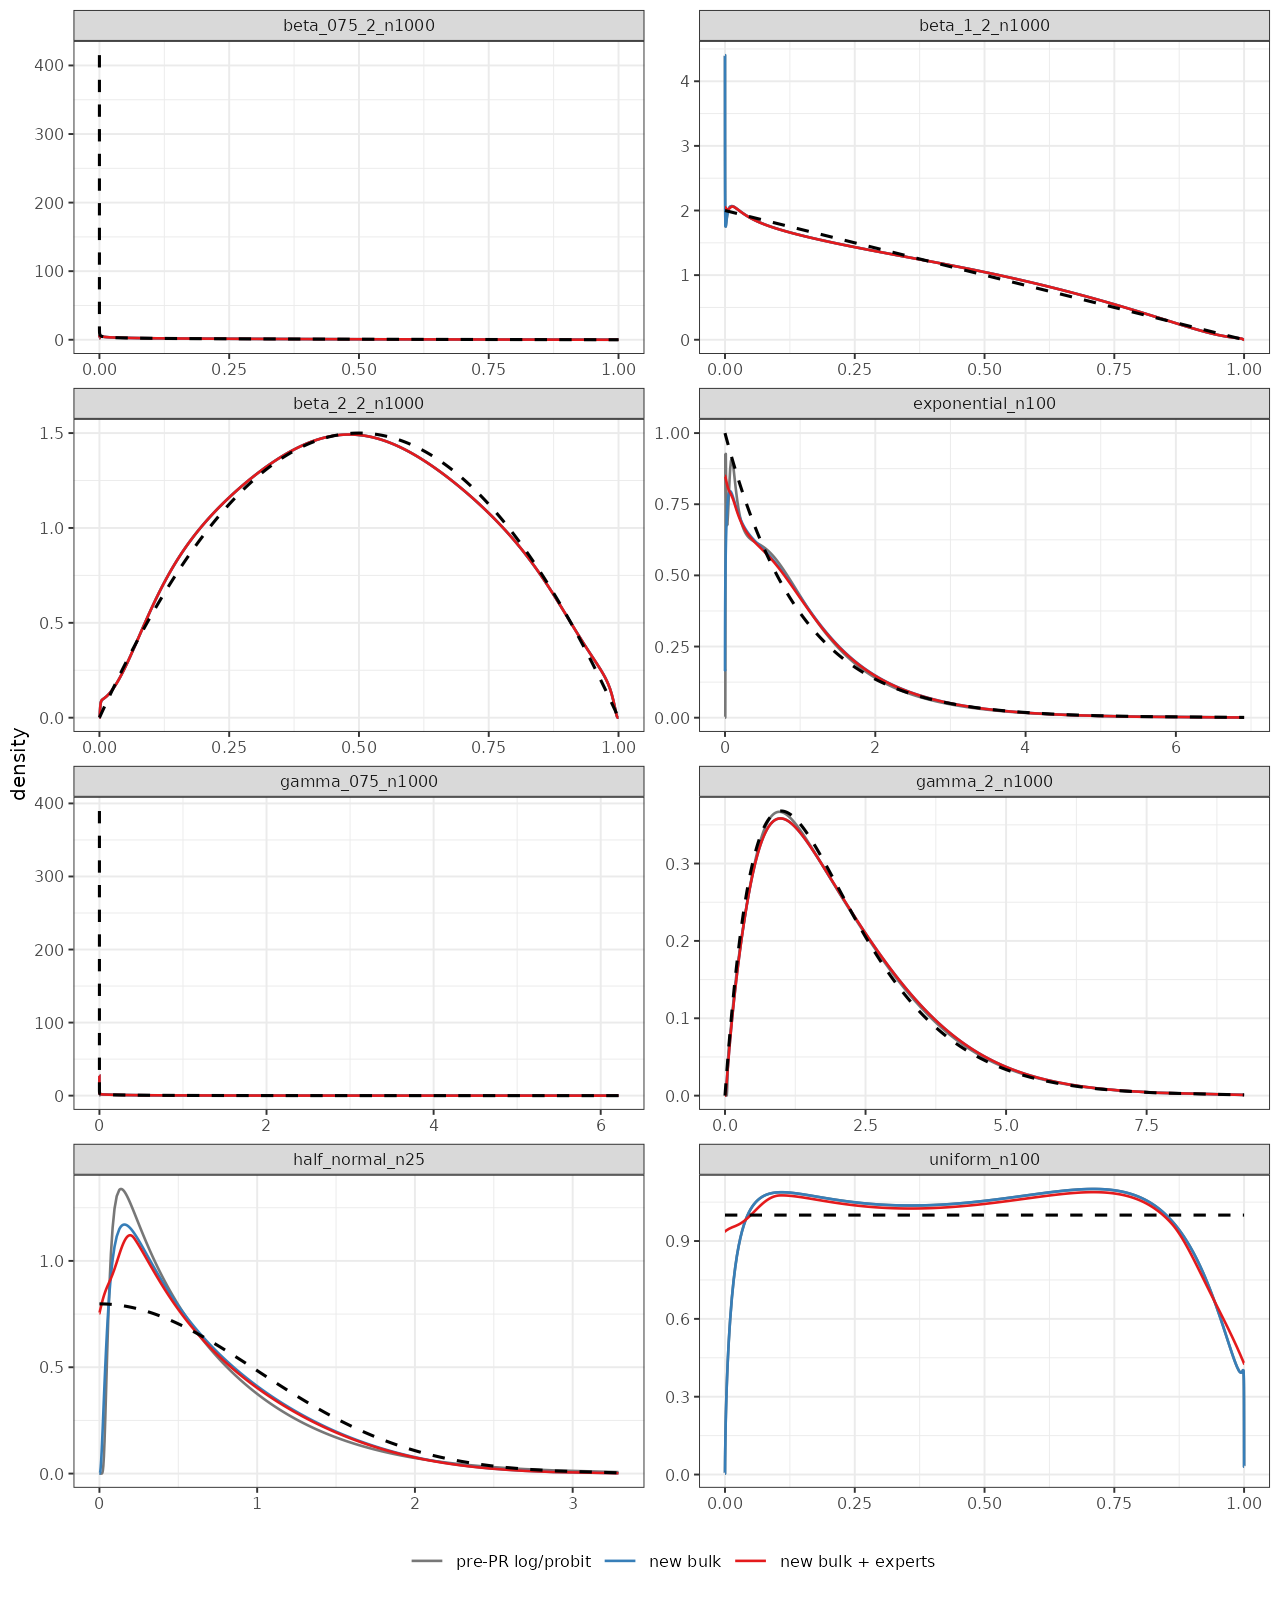
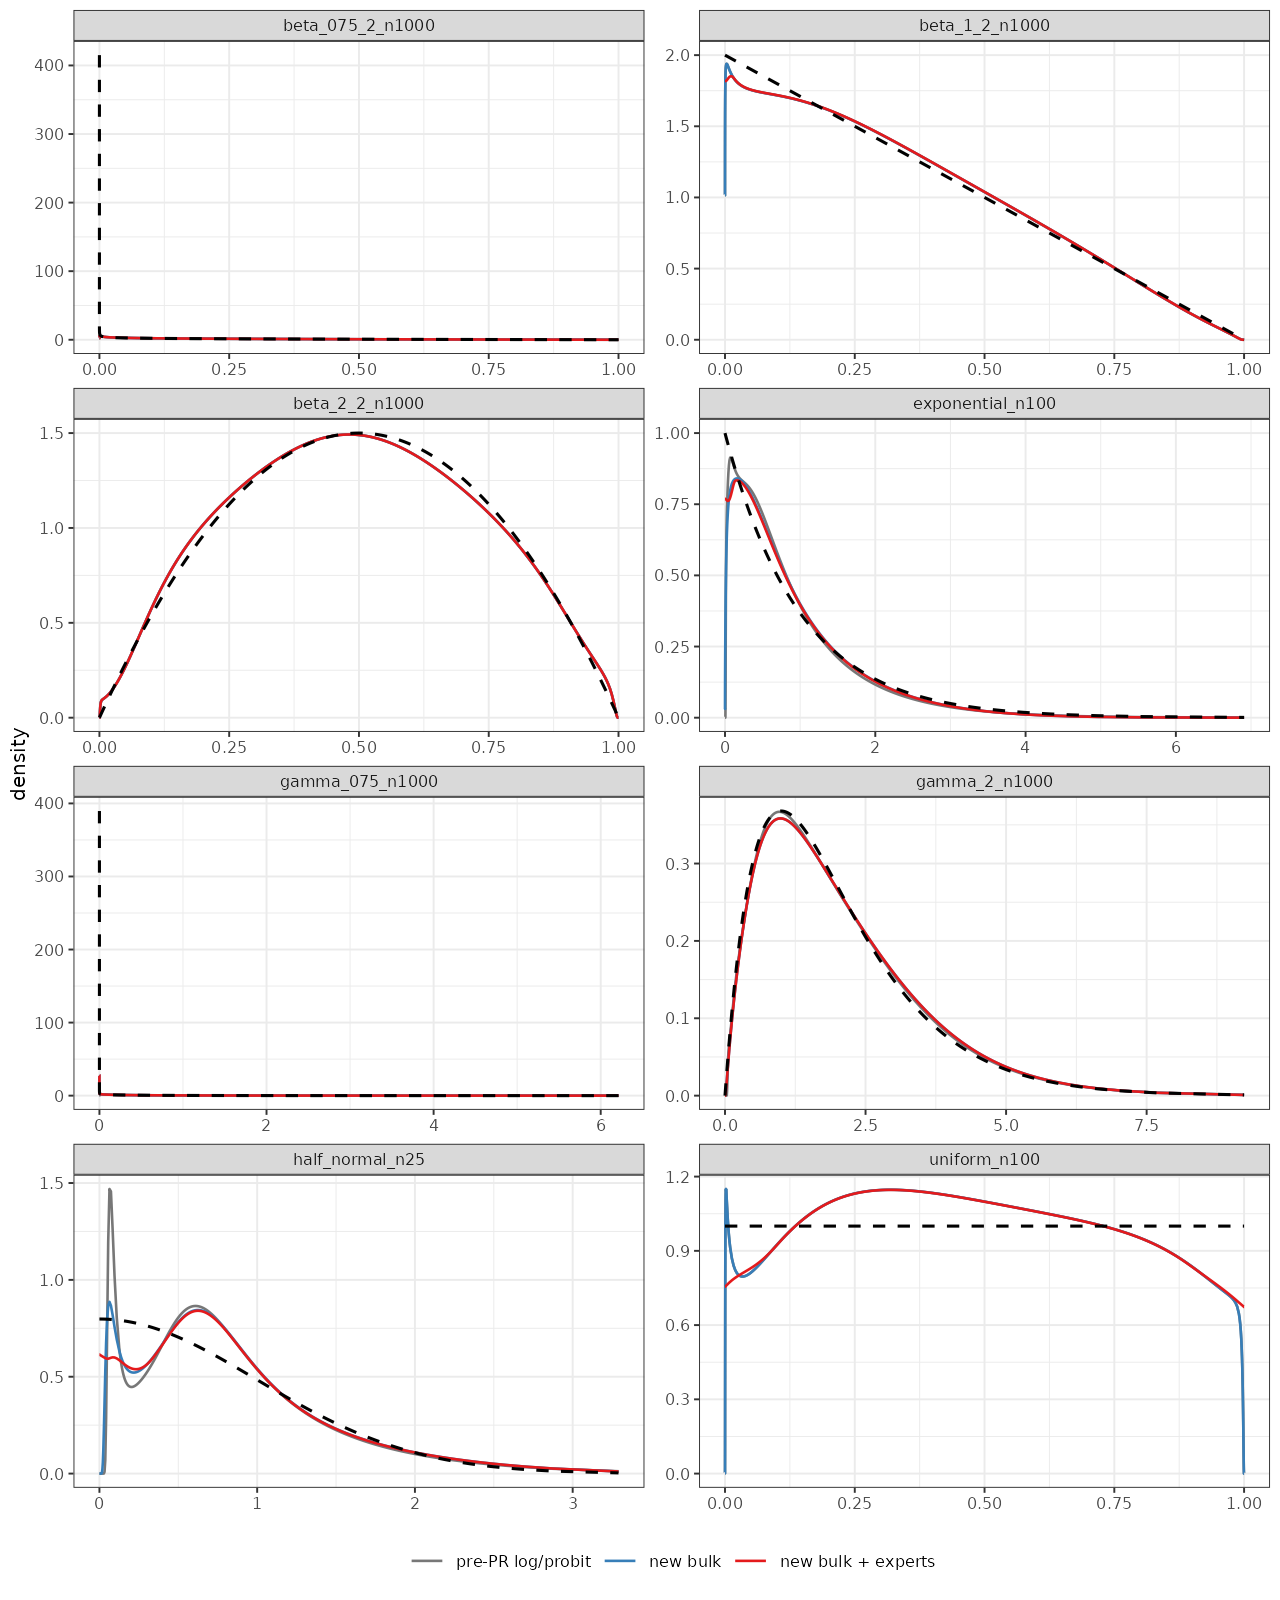
Refresh boundary validation results

diff --git a/diagnostic/PR_COMMENT.md b/diagnostic/PR_COMMENT.md
@@ -4,19 +4,21 @@ This PR changes continuous fits with known finite support in two steps.
 
 For a one-sided support, write $d(x)$ for distance from the finite endpoint,
 let $s$ be the weighted median observed distance, and set
-$\epsilon=10^{-5}s$. The transformed bulk estimator now uses
+$\epsilon=10^{-5}s$. The transformed bulk estimator uses an endpoint-anchored,
+scaled member of the Box-Cox family with power parameter $\lambda=1/4$:
 
 $$
 T\{d(x)\}
-=4\left[\left\{\frac{d(x)+\epsilon}{s}\right\}^{1/4}
--\left(\frac{\epsilon}{s}\right)^{1/4}\right],
+=4[\{\frac{d(x)+\epsilon}{s}\}^{1/4}
+-\{\frac{\epsilon}{s}\}^{1/4}],
 \qquad
 |T'(x)|
-=\frac{1}{s}\left\{\frac{d(x)+\epsilon}{s}\right\}^{-3/4}.
+=\frac{1}{s}\{\frac{d(x)+\epsilon}{s}\}^{-3/4}.
 $$
 
-This replaces the previous log transform and makes the construction scale
-equivariant. Two-sided fits retain the regularized probit bulk transform.
+This Box-Cox transform replaces the previous log transform and makes the
+construction scale equivariant. Two-sided fits retain the regularized probit
+bulk transform.
 
 Each finite endpoint is then classified independently from its first
 $k\simeq2\sqrt{n_e}$ order statistics. In the unweighted case,
@@ -29,10 +31,8 @@ $$
 
 Endpoints consistent with a finite nonzero limiting density receive a boundary
 expert. Exploding, vanishing, ambiguous, and degenerate endpoints retain the
-bulk. The expert is a Gaussian local-linear equivalent-kernel estimate,
-
-using an automatically selected bandwidth on the original
-scale. The selector uses all
+bulk. The expert is a Gaussian local-linear equivalent-kernel estimate with an
+automatically selected bandwidth on the original scale. The selector uses all
 positive-weight observations on bounded support and the closest 75% by row
 count on one-sided support. The two required Gaussian convolutions are
 evaluated on a shared 256-bin FFT grid.
@@ -62,8 +62,8 @@ clamps, and normalization fixed.
 
 ## Validation design
 
-The large-scale tables below predate the biweight and local-linear
-simplifications and will be refreshed before merge.
+> **Before merging:** remove `diagnostic/`; it is retained in this branch only
+> to make the PR validation reproducible during review.
 
 The primary benchmark is the actual pre-PR package at parent commit `7faec53`
 with C++ commit `b16d514`: log transform for one-sided support and probit for
@@ -85,28 +85,28 @@ PR**. Parentheses are paired Monte Carlo standard errors.
 
 | support | degree | $n=25$ | $n=100$ | $n=1000$ | $n=2000$ |
 |---|---:|---:|---:|---:|---:|
-| one-sided | 0 | 0.748 (0.044) | 0.579 (0.028) | 0.513 (0.011) | 0.475 (0.010) |
-| one-sided | 1 | 0.505 (0.020) | 0.411 (0.011) | 0.684 (0.063) | 0.724 (0.050) |
-| one-sided | 2 | 0.211 (0.036) | 0.198 (0.021) | 0.208 (0.018) | 0.260 (0.015) |
-| two-sided | 0 | 0.951 (0.005) | 0.943 (0.005) | 0.941 (0.006) | 0.925 (0.005) |
-| two-sided | 1 | 0.867 (0.006) | 0.823 (0.007) | 0.847 (0.005) | 0.852 (0.004) |
-| two-sided | 2 | 0.892 (0.013) | 0.911 (0.006) | 0.940 (0.006) | 0.932 (0.006) |
+| one-sided | 0 | 1.810 (0.116) | 1.134 (0.049) | 0.586 (0.015) | 0.519 (0.011) |
+| one-sided | 1 | 0.789 (0.038) | 0.508 (0.011) | 0.566 (0.042) | 0.612 (0.037) |
+| one-sided | 2 | 0.550 (0.034) | 0.394 (0.015) | 0.231 (0.008) | 0.231 (0.008) |
+| two-sided | 0 | 0.946 (0.005) | 0.940 (0.005) | 0.943 (0.006) | 0.926 (0.006) |
+| two-sided | 1 | 0.856 (0.007) | 0.817 (0.007) | 0.846 (0.005) | 0.850 (0.004) |
+| two-sided | 2 | 0.881 (0.013) | 0.906 (0.006) | 0.943 (0.007) | 0.932 (0.007) |
 
 ### Boundary ratio, averaged over families
 
 | support | degree | $n=25$ | $n=100$ | $n=1000$ | $n=2000$ |
 |---|---:|---:|---:|---:|---:|
-| one-sided | 0 | 0.702 (0.049) | 0.513 (0.030) | 0.447 (0.013) | 0.399 (0.011) |
-| one-sided | 1 | 0.399 (0.022) | 0.303 (0.011) | 0.636 (0.075) | 0.702 (0.059) |
-| one-sided | 2 | 0.144 (0.027) | 0.151 (0.027) | 0.159 (0.016) | 0.205 (0.015) |
-| two-sided | 0 | 0.923 (0.005) | 0.944 (0.005) | 0.954 (0.005) | 0.939 (0.005) |
-| two-sided | 1 | 0.824 (0.008) | 0.826 (0.007) | 0.879 (0.004) | 0.877 (0.004) |
-| two-sided | 2 | 0.883 (0.012) | 0.913 (0.005) | 0.955 (0.005) | 0.945 (0.005) |
+| one-sided | 0 | 3.149 (0.278) | 1.553 (0.097) | 0.563 (0.020) | 0.461 (0.014) |
+| one-sided | 1 | 0.931 (0.073) | 0.437 (0.017) | 0.519 (0.047) | 0.590 (0.042) |
+| one-sided | 2 | 0.612 (0.048) | 0.396 (0.024) | 0.190 (0.009) | 0.190 (0.008) |
+| two-sided | 0 | 0.918 (0.005) | 0.939 (0.005) | 0.955 (0.006) | 0.940 (0.006) |
+| two-sided | 1 | 0.817 (0.009) | 0.821 (0.007) | 0.878 (0.004) | 0.876 (0.004) |
+| two-sided | 2 | 0.877 (0.012) | 0.910 (0.005) | 0.958 (0.006) | 0.946 (0.006) |
 
-The expert also improves over the unrepaired new bulk. Averaged global ISE
-ratios range from 0.84--0.94 for degree 0, 0.74--0.89 for degree 1, and
-0.88--0.92 for degree 2 on one-sided support. The corresponding bounded ratios
-are 0.93--0.95, 0.82--0.87, and 0.89--0.94.
+Against the unrepaired new bulk, averaged global ISE ratios range from
+0.83--0.94 for degree 0, 0.73--0.88 for degree 1, and 0.87--0.92 for degree 2
+on one-sided support. The corresponding bounded ratios are 0.93--0.95,
+0.82--0.86, and 0.88--0.94.
 
 <details>
 <summary>Family-level global / boundary ISE ratios</summary>
@@ -115,78 +115,78 @@ are 0.93--0.95, 0.82--0.87, and 0.89--0.94.
 
 | family | $n=25$ | $n=100$ | $n=1000$ | $n=2000$ |
 |---|---:|---:|---:|---:|
-| Exponential | 0.75 / 0.73 | 0.49 / 0.45 | 0.37 / 0.30 | 0.34 / 0.27 |
-| Gamma$(0.75)$ | 0.55 / 0.54 | 0.51 / 0.50 | 0.45 / 0.44 | 0.44 / 0.43 |
-| Gamma$(2)$ | 0.71 / 0.52 | 0.76 / 0.58 | 0.81 / 0.69 | 0.80 / 0.67 |
-| half-normal | 0.46 / 0.38 | 0.41 / 0.32 | 0.31 / 0.21 | 0.28 / 0.17 |
-| Lomax$(2)$ | 1.28 / 1.34 | 0.72 / 0.70 | 0.63 / 0.59 | 0.51 / 0.45 |
+| Exponential | 1.48 / 2.67 | 1.36 / 2.41 | 0.58 / 0.56 | 0.51 / 0.45 |
+| Gamma$(0.75)$ | 2.05 / 2.76 | 0.91 / 0.97 | 0.33 / 0.32 | 0.28 / 0.27 |
+| Gamma$(2)$ | 0.79 / 0.66 | 0.84 / 0.75 | 0.87 / 0.80 | 0.86 / 0.77 |
+| half-normal | 0.88 / 1.28 | 0.79 / 1.08 | 0.54 / 0.53 | 0.46 / 0.38 |
+| Lomax$(2)$ | 3.84 / 8.37 | 1.77 / 2.56 | 0.61 / 0.60 | 0.50 / 0.44 |
 
 #### One-sided, degree 1
 
 | family | $n=25$ | $n=100$ | $n=1000$ | $n=2000$ |
 |---|---:|---:|---:|---:|
-| Exponential | 0.49 / 0.37 | 0.31 / 0.22 | 0.38 / 0.26 | 0.38 / 0.27 |
-| Gamma$(0.75)$ | 0.27 / 0.25 | 0.25 / 0.21 | 0.45 / 0.43 | 0.53 / 0.52 |
-| Gamma$(2)$ | 0.69 / 0.46 | 0.81 / 0.63 | 0.93 / 0.98 | 1.01 / 1.19 |
-| half-normal | 0.45 / 0.32 | 0.38 / 0.23 | 0.43 / 0.25 | 0.43 / 0.25 |
-| Lomax$(2)$ | 0.62 / 0.60 | 0.31 / 0.22 | 1.23 / 1.26 | 1.27 / 1.28 |
+| Exponential | 0.70 / 0.83 | 0.47 / 0.43 | 0.37 / 0.25 | 0.35 / 0.24 |
+| Gamma$(0.75)$ | 0.72 / 0.88 | 0.33 / 0.30 | 0.32 / 0.30 | 0.36 / 0.34 |
+| Gamma$(2)$ | 0.74 / 0.59 | 0.84 / 0.73 | 0.93 / 1.03 | 1.00 / 1.21 |
+| half-normal | 0.61 / 0.65 | 0.50 / 0.40 | 0.47 / 0.29 | 0.44 / 0.26 |
+| Lomax$(2)$ | 1.17 / 1.71 | 0.40 / 0.32 | 0.74 / 0.72 | 0.91 / 0.90 |
 
 #### One-sided, degree 2
 
 | family | $n=25$ | $n=100$ | $n=1000$ | $n=2000$ |
 |---|---:|---:|---:|---:|
-| Exponential | 0.07 / 0.04 | 0.02 / 0.01 | 0.06 / 0.04 | 0.09 / 0.06 |
-| Gamma$(0.75)$ | 0.03 / 0.03 | 0.04 / 0.03 | 0.23 / 0.21 | 0.23 / 0.21 |
-| Gamma$(2)$ | 0.38 / 0.18 | 0.72 / 0.56 | 0.59 / 0.44 | 0.62 / 0.50 |
-| half-normal | 0.09 / 0.04 | 0.03 / 0.02 | 0.03 / 0.01 | 0.06 / 0.03 |
-| Lomax$(2)$ | 0.49 / 0.43 | 0.17 / 0.13 | 0.13 / 0.09 | 0.30 / 0.23 |
+| Exponential | 0.43 / 0.53 | 0.32 / 0.38 | 0.10 / 0.07 | 0.10 / 0.07 |
+| Gamma$(0.75)$ | 0.47 / 0.56 | 0.18 / 0.17 | 0.12 / 0.11 | 0.10 / 0.10 |
+| Gamma$(2)$ | 0.61 / 0.48 | 0.84 / 0.83 | 0.67 / 0.59 | 0.67 / 0.61 |
+| half-normal | 0.37 / 0.42 | 0.32 / 0.32 | 0.16 / 0.10 | 0.13 / 0.06 |
+| Lomax$(2)$ | 0.87 / 1.09 | 0.30 / 0.28 | 0.11 / 0.08 | 0.15 / 0.11 |
 
 #### Two-sided, degree 0
 
 | family | $n=25$ | $n=100$ | $n=1000$ | $n=2000$ |
 |---|---:|---:|---:|---:|
-| Beta$(0.75,0.75)$ | 1.02 / 1.03 | 1.03 / 1.04 | 1.04 / 1.04 | 1.05 / 1.05 |
-| Beta$(0.75,2)$ | 0.99 / 0.98 | 1.01 / 1.00 | 1.07 / 1.07 | 1.06 / 1.06 |
-| Beta$(1,2)$ | 0.93 / 0.91 | 0.85 / 0.86 | 0.83 / 0.86 | 0.78 / 0.81 |
-| Beta$(2,0.75)$ | 1.00 / 0.99 | 1.01 / 1.00 | 1.09 / 1.08 | 1.06 / 1.05 |
-| Beta$(2,1)$ | 0.95 / 0.93 | 0.89 / 0.89 | 0.78 / 0.81 | 0.79 / 0.82 |
-| Beta$(2,2)$ | 0.82 / 0.65 | 0.94 / 0.88 | 1.00 / 1.00 | 1.00 / 1.00 |
-| Uniform | 0.95 / 0.98 | 0.88 / 0.93 | 0.77 / 0.82 | 0.74 / 0.79 |
+| Beta$(0.75,0.75)$ | 1.01 / 1.02 | 1.03 / 1.04 | 1.05 / 1.05 | 1.06 / 1.06 |
+| Beta$(0.75,2)$ | 0.98 / 0.97 | 1.01 / 1.01 | 1.09 / 1.08 | 1.07 / 1.07 |
+| Beta$(1,2)$ | 0.90 / 0.89 | 0.84 / 0.85 | 0.82 / 0.85 | 0.77 / 0.80 |
+| Beta$(2,0.75)$ | 0.99 / 0.98 | 1.01 / 1.01 | 1.11 / 1.10 | 1.07 / 1.06 |
+| Beta$(2,1)$ | 0.94 / 0.92 | 0.87 / 0.88 | 0.76 / 0.80 | 0.78 / 0.81 |
+| Beta$(2,2)$ | 0.86 / 0.68 | 0.95 / 0.88 | 1.00 / 1.00 | 1.00 / 1.00 |
+| Uniform | 0.94 / 0.96 | 0.86 / 0.91 | 0.76 / 0.81 | 0.72 / 0.78 |
 
 #### Two-sided, degree 1
 
 | family | $n=25$ | $n=100$ | $n=1000$ | $n=2000$ |
 |---|---:|---:|---:|---:|
-| Beta$(0.75,0.75)$ | 0.91 / 0.91 | 0.87 / 0.88 | 0.94 / 0.95 | 0.97 / 0.97 |
-| Beta$(0.75,2)$ | 0.88 / 0.87 | 0.89 / 0.90 | 0.96 / 0.97 | 0.98 / 0.98 |
-| Beta$(1,2)$ | 0.81 / 0.76 | 0.72 / 0.74 | 0.73 / 0.76 | 0.69 / 0.73 |
-| Beta$(2,0.75)$ | 0.89 / 0.88 | 0.88 / 0.88 | 0.95 / 0.96 | 0.98 / 0.98 |
-| Beta$(2,1)$ | 0.86 / 0.82 | 0.74 / 0.76 | 0.70 / 0.75 | 0.71 / 0.74 |
-| Beta$(2,2)$ | 0.91 / 0.73 | 0.96 / 0.90 | 1.00 / 1.00 | 1.00 / 1.00 |
-| Uniform | 0.82 / 0.78 | 0.70 / 0.72 | 0.64 / 0.77 | 0.62 / 0.74 |
+| Beta$(0.75,0.75)$ | 0.90 / 0.90 | 0.86 / 0.88 | 0.95 / 0.95 | 0.98 / 0.98 |
+| Beta$(0.75,2)$ | 0.86 / 0.86 | 0.90 / 0.90 | 0.97 / 0.97 | 0.99 / 0.99 |
+| Beta$(1,2)$ | 0.79 / 0.74 | 0.71 / 0.73 | 0.72 / 0.75 | 0.69 / 0.72 |
+| Beta$(2,0.75)$ | 0.87 / 0.87 | 0.88 / 0.89 | 0.96 / 0.96 | 0.99 / 0.99 |
+| Beta$(2,1)$ | 0.84 / 0.81 | 0.72 / 0.75 | 0.69 / 0.74 | 0.71 / 0.73 |
+| Beta$(2,2)$ | 0.93 / 0.78 | 0.97 / 0.90 | 1.00 / 1.00 | 1.00 / 1.00 |
+| Uniform | 0.79 / 0.76 | 0.68 / 0.70 | 0.62 / 0.76 | 0.61 / 0.73 |
 
 #### Two-sided, degree 2
 
 | family | $n=25$ | $n=100$ | $n=1000$ | $n=2000$ |
 |---|---:|---:|---:|---:|
-| Beta$(0.75,0.75)$ | 0.91 / 0.92 | 0.95 / 0.96 | 1.02 / 1.02 | 1.05 / 1.05 |
-| Beta$(0.75,2)$ | 0.89 / 0.89 | 0.94 / 0.94 | 1.06 / 1.06 | 1.06 / 1.05 |
-| Beta$(1,2)$ | 0.77 / 0.80 | 0.84 / 0.85 | 0.82 / 0.85 | 0.78 / 0.81 |
-| Beta$(2,0.75)$ | 0.90 / 0.90 | 0.94 / 0.95 | 1.08 / 1.07 | 1.05 / 1.05 |
-| Beta$(2,1)$ | 0.90 / 0.90 | 0.83 / 0.85 | 0.78 / 0.82 | 0.79 / 0.83 |
-| Beta$(2,2)$ | 0.99 / 0.89 | 1.02 / 0.95 | 1.00 / 1.00 | 1.00 / 1.00 |
-| Uniform | 0.87 / 0.87 | 0.86 / 0.90 | 0.82 / 0.86 | 0.79 / 0.83 |
+| Beta$(0.75,0.75)$ | 0.90 / 0.91 | 0.94 / 0.95 | 1.04 / 1.04 | 1.07 / 1.07 |
+| Beta$(0.75,2)$ | 0.87 / 0.88 | 0.95 / 0.96 | 1.09 / 1.08 | 1.08 / 1.07 |
+| Beta$(1,2)$ | 0.74 / 0.77 | 0.82 / 0.83 | 0.81 / 0.83 | 0.77 / 0.79 |
+| Beta$(2,0.75)$ | 0.89 / 0.89 | 0.95 / 0.96 | 1.11 / 1.10 | 1.07 / 1.07 |
+| Beta$(2,1)$ | 0.89 / 0.89 | 0.80 / 0.82 | 0.76 / 0.80 | 0.77 / 0.81 |
+| Beta$(2,2)$ | 1.04 / 0.96 | 1.04 / 0.96 | 1.00 / 1.00 | 1.00 / 1.00 |
+| Uniform | 0.85 / 0.85 | 0.84 / 0.88 | 0.80 / 0.85 | 0.77 / 0.81 |
 
 </details>
 
 ## Bias, variance, classification, and scale
 
-The ISE gains are primarily a variance reduction, with some deliberate
-small-sample boundary bias. Against pre-PR at scale 1, aggregate global
-variance ratios are 0.27--0.53 one-sided for degree 0, 0.29--0.43 for degree 1,
-and 0.04--0.12 for degree 2. Bounded ratios are 0.99--1.03, 0.86--0.90, and
-0.89--1.00, respectively. This matches the visual goal: substantially calmer
-one-sided endpoints and moderate smoothing on bounded support.
+The repair primarily reduces variance, with deliberate boundary bias. Against
+pre-PR at scale 1, aggregate global variance ratios are 0.38--0.62 one-sided
+for degree 0, 0.39--0.56 for degree 1, and 0.20--0.24 for degree 2. Bounded
+ratios are 0.96--0.98, 0.84--0.87, and 0.87--0.96, respectively. This matches
+the visual goal: substantially calmer one-sided endpoints and moderate
+smoothing on bounded support.
 
 Classifier behavior becomes appropriately conservative with sample size. For
 one-sided finite targets, selection rates at $n=100/2000$ are 58%/78%
@@ -197,7 +197,7 @@ Gamma$(2)$. For Uniform, either endpoint is selected in 90%/98% and both in
 $n=100$ to 0% at $n\geq1000$.
 
 For Exponential samples at $n=100$, the 5%--95% range of the estimated value
-at the endpoint is 0.56--1.44 when the expert is selected, compared with
+at the endpoint is 0.64--1.34 when the expert is selected, compared with
 0.01--49.6 when the classifier retains the raw bulk. Thus the expert delivers
 the intended visual stabilization when selected; remaining extreme endpoint
 values are primarily classifier false negatives.
@@ -212,14 +212,14 @@ Median end-to-end R fit times for the default degree-2 estimator are below.
 
 | case | $n$ | pre-PR | candidate | slowdown |
 |---|---:|---:|---:|---:|
-| one active endpoint | 100 | 0.48 ms | 0.81 ms | 1.70x |
-| one active endpoint | 1,000 | 1.51 ms | 1.96 ms | 1.29x |
-| one active endpoint | 10,000 | 12.43 ms | 13.57 ms | 1.09x |
-| two active endpoints | 100 | 0.51 ms | 0.87 ms | 1.71x |
-| two active endpoints | 1,000 | 1.45 ms | 1.85 ms | 1.27x |
-| two active endpoints | 10,000 | 10.97 ms | 11.83 ms | 1.08x |
-| one-sided fallback | 100 / 1,000 / 10,000 | -- | -- | 1.09x / 1.05x / 1.02x |
-| two-sided fallback | 100 / 1,000 / 10,000 | -- | -- | 1.00x / 1.01x / 1.01x |
+| one active endpoint | 100 | 0.48 ms | 0.79 ms | 1.66x |
+| one active endpoint | 1,000 | 1.52 ms | 1.90 ms | 1.25x |
+| one active endpoint | 10,000 | 12.47 ms | 13.23 ms | 1.06x |
+| two active endpoints | 100 | 0.51 ms | 0.83 ms | 1.63x |
+| two active endpoints | 1,000 | 1.46 ms | 1.77 ms | 1.22x |
+| two active endpoints | 10,000 | 10.97 ms | 11.40 ms | 1.04x |
+| one-sided fallback | 100 / 1,000 / 10,000 | -- | -- | 1.08x / 1.03x / 1.00x |
+| two-sided fallback | 100 / 1,000 / 10,000 | -- | -- | 1.00x / 0.98x / 0.99x |
 
 ## Less common paths and numerical checks
 
